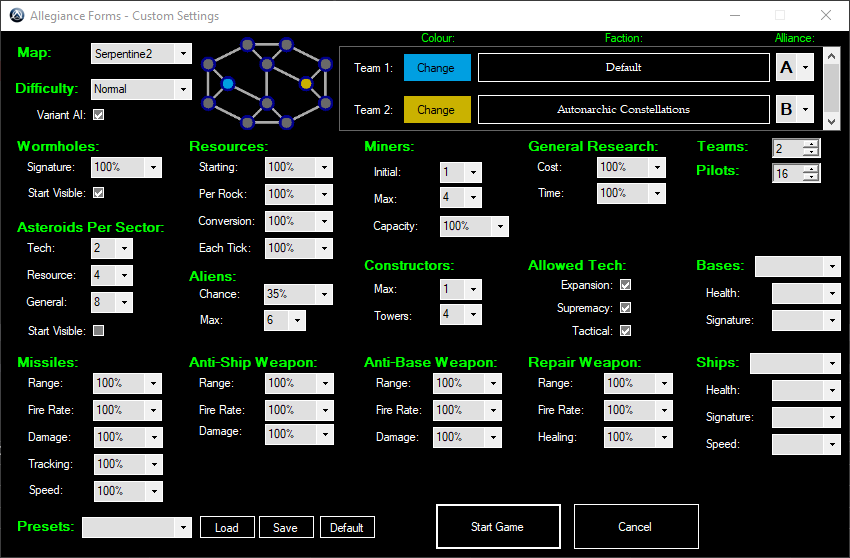
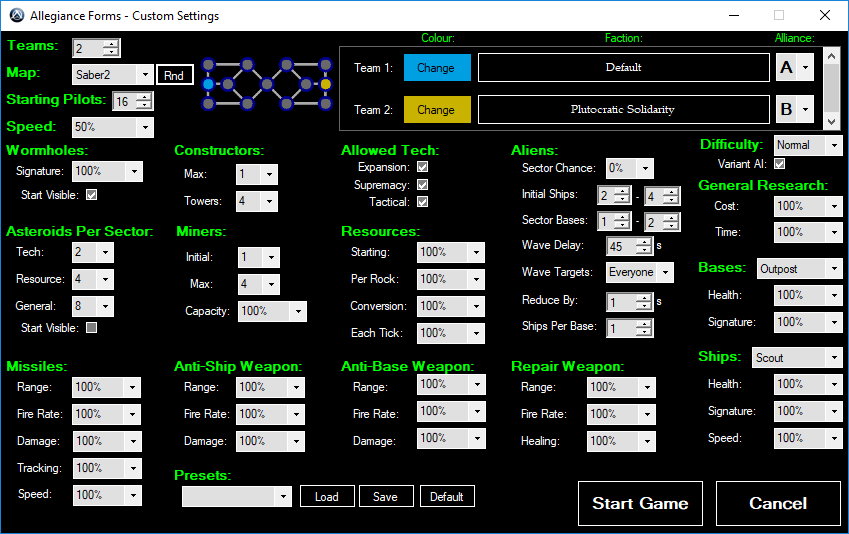
Updated readme and screenshots.

diff --git a/AllegianceForms/Properties/AssemblyInfo.cs b/AllegianceForms/Properties/AssemblyInfo.cs
@@ -9,7 +9,7 @@ using System.Runtime.InteropServices;
 [assembly: AssemblyConfiguration("")]
 [assembly: AssemblyCompany("")]
 [assembly: AssemblyProduct("AllegianceForms")]
-[assembly: AssemblyCopyright("Copyright © Aaron Moore 2017")]
+[assembly: AssemblyCopyright("Copyright © Aaron Moore 2020")]
 [assembly: AssemblyTrademark("")]
 [assembly: AssemblyCulture("")]
 
@@ -31,5 +31,5 @@ using System.Runtime.InteropServices;
 // You can specify all the values or you can default the Build and Revision Numbers 
 // by using the '*' as shown below:
 // [assembly: AssemblyVersion("1.0.*")]
-[assembly: AssemblyVersion("0.3.*")]
+[assembly: AssemblyVersion("0.4.*")]
 [assembly: log4net.Config.XmlConfigurator(Watch = true)]

diff --git a/README.md b/README.md
@@ -11,21 +11,21 @@
 
 Overview
 ------
-A 2D strategy game inspired by Microsoft's space combat game: Allegiance.
+A 2D strategy game inspired by Microsoft's 3D space combat game: Allegiance.
 
-Made for the Free Allegiance community: http://www.freeallegiance.org/
+Thanks to the Free Allegiance community: http://www.freeallegiance.org/
 
-- Allegiance was originally released in March 2000.
+- Allegiance was originally released in March 2000
 - It is now Open Source: https://github.com/FreeAllegiance/Allegiance
-- And available free on <a href="http://store.steampowered.com/app/700480/Microsoft_Allegiance/">Steam</a>!
+- And available for free on <a href="http://store.steampowered.com/app/700480/Microsoft_Allegiance/">Steam</a>!
 
-[Screenshots](#screenshots)&nbsp;&nbsp;&nbsp;[Video](#video)&nbsp;&nbsp;&nbsp;[Controls](#controls)&nbsp;&nbsp;&nbsp;[Credits](#credits)&nbsp;&nbsp;&nbsp;[Dependancies](#dependancies)
+[Screenshots](#screenshots)&nbsp;&nbsp;&nbsp;[Video](#video)&nbsp;&nbsp;&nbsp;[Controls](#controls)&nbsp;&nbsp;&nbsp;[Credits](#credits)
 
 Features
 ------
 - Customisable [Game Settings & Factions](#customise-the-game)
 - Commander AI
-- Multiple [Maps](#maps), [Map Editor](#map-editor) & [Tech Paths](#tech-tree)
+- Multiple [Maps](#maps), a [Map Editor](#map-editor) & [Tech Paths](#tech-tree)
 - Miners, Constructors, Scouts, Fighters, Interceptors, Bombers, Gunships, Stealth Fighters, Stealth Bombers, Fighter Bombers, Troop Transports, Towers, Minefields and Capital Ships!
 
 ![alt text][ships]
@@ -40,7 +40,7 @@ Screenshots
 ### Explore the map
 ![alt text][explore]
 - Discover wormholes to other sectors
-- Find your enemy's bases and miners
+- Find the enemy's bases and their miners
 
 ### Defend your miners & constructors
 ![alt text][defend]
@@ -48,11 +48,16 @@ Screenshots
 
 ### Build bases & expand
 ![alt text][expand]
-- Outpost, Refinery, Starbase and Shipyard constructors require *Standard* asteroids: <img src="https://github.com/aarmo/AllegianceForms/raw/master/AllegianceForms/Art/Rocks/rock_2.png" width="30"/>
+- Outpost, Starbase and Shipyard constructors require *Standard* asteroids: <img src="https://github.com/aarmo/AllegianceForms/raw/master/AllegianceForms/Art/Rocks/rock_2.png" width="30"/>
 - Supremacy constructors require *Carbon* asteroids: <img src="https://github.com/aarmo/AllegianceForms/raw/master/AllegianceForms/Art/Rocks/carbon_1.png" width="30"/>
 - Tactical constructors require *Silicon* asteroids: <img src="https://github.com/aarmo/AllegianceForms/raw/master/AllegianceForms/Art/Rocks/silicon_2.png" width="30"/>
 - Expansion constructors require *Uranium* asteroids: <img src="https://github.com/aarmo/AllegianceForms/raw/master/AllegianceForms/Art/Rocks/uranium_3.png" width="30"/>
+- Resource constructors require *Helium* asteroids.
 - Tower constructors require *No* asteroids.
+
+### Recruit more pilots
+- Outposts add 5 pilots to your team
+- Starbases add 10!
 
 ### Upgrade your tech & battle the enemy
 ![alt text][tech]
@@ -89,12 +94,12 @@ Key	| Description
 **F6** | Show/Hide the Pilot List window.
 **F12** | Show/Hide the AI Debug window.
 **`** | Show/Hide the Quick Command menu.
-**Pause** | Pause/Resume the game.
+**Pause**, **Escape** | Pause/Resume the game.
 
 ### Base Commands
 Key	| Description
 --- | ---
-**Right Click** | Sets a new *Default Location* for a base.
+**Right Click** | Sets a new *Default* rally location for this base.
 **S** | Launch a *Scout*.
 **F** | Launch a *Fighter*.
 **I** | Launch an *Interceptor*.
@@ -117,7 +122,7 @@ Key	| Description
 **R** | Orders the selected unit(s) to repeatedly *Patrol* between these positions.
 **E** | Orders the selected miners(s) to *Mine* around this position.
 **B** | Orders a selected constructor to *Build* near this position.
-**C** | Orders the selected troop transports to *Capture* an enemy base.
+**C** | Orders a selected troop transport to *Capture* an enemy base.
 
 [Overview](#overview)
 
@@ -126,7 +131,13 @@ Maps
 Name | Image | Teams
 --- | --- | ---
 Across4 | ![alt text][mapacross4] | 2 / 4
+Amber2 | ![alt text][mapamber2] | 2
+BowTie2 | ![alt text][mapbowtie2] | 2
 Brawl2 | ![alt text][mapbrawl2] | 2
+Chopper2 | ![alt text][mapchopper2] | 2
+Chopper3 | ![alt text][mapchopper3] | 3
+Chopper4 | ![alt text][mapchopper4] | 2 / 4
+Constellation2 | ![alt text][mapconstellation2] | 2
 Cross2 | ![alt text][mapcross2] | 2
 Cross3 | ![alt text][mapcross3] | 3
 Cross4 | ![alt text][mapcross4] | 2 / 4
@@ -136,6 +147,9 @@ DoubleRing4 | ![alt text][mapdoublering4] | 2 / 4
 Grid2 | ![alt text][mapgrid2] | 2
 HiHigher2 | ![alt text][maphihigher2] | 2
 HiLo2 | ![alt text][maphilo2] | 2
+Lanes4 | ![alt text][maplanes4] | 2 / 4
+Limited2 | ![alt text][maplimited2] | 2
+Mica2 | ![alt text][mapmica2] | 2
 NerveHigh2 | ![alt text][mapnervehigh2] | 2
 NerveHigh3 | ![alt text][mapnervehigh3] | 3
 NerveHigh4 | ![alt text][mapnervehigh4] | 2 / 4
@@ -145,12 +159,20 @@ NerveLow4 | ![alt text][mapnervelow4] | 2 / 4
 PinWheel2 | ![alt text][mappinwheel2] | 2
 PinWheel3 | ![alt text][mappinwheel3] | 3
 PinWheel4 | ![alt text][mappinwheel4] | 2 / 4
+Pyrite2 | ![alt text][mappyrite2] | 2
 QuadClose2 | ![alt text][mapquadclose2] | 2
 QuadClose3 | ![alt text][mapquadclose3] | 3
 QuadClose4 | ![alt text][mapquadclose4] | 2 / 4
+Saber2 | ![alt text][mapsaber2] | 2
+Saber4 | ![alt text][mapsaber4] | 2 / 4
+Schist2 | ![alt text][mapschist2] | 2
+Serpentine2 | ![alt text][mapserpentine2] | 2
 SingleRing2 | ![alt text][mapsinglering2] | 2
 SingleRing3 | ![alt text][mapsinglering3] | 3
 SingleRing4 | ![alt text][mapsinglering4] | 2 / 4
+SmallSpiral2 | ![alt text][mapsmallspiral2] | 2
+SmallSpiral3 | ![alt text][mapsmallspiral3] | 3
+SmallSpiral4 | ![alt text][mapsmallspiral4] | 2 / 4
 Spine2 | ![alt text][mapspine2] | 2
 Spine3 | ![alt text][mapspine3] | 3
 Spine4 | ![alt text][mapspine4] | 2 / 4
@@ -158,17 +180,7 @@ Star2 | ![alt text][mapstar2] | 2
 TriClose2 | ![alt text][maptriclose2] | 2
 TriClose3 | ![alt text][maptriclose3] | 3
 TriClose4 | ![alt text][maptriclose4] | 2 / 4
-Amber2 | ![alt text][mapamber2] | 2
-Constellation2 | ![alt text][mapconstellation2] | 2
-Limited2 | ![alt text][maplimited2] | 2
-Mica2 | ![alt text][mapmica2] | 2
-Pyrite2 | ![alt text][mappyrite2] | 2
-Schist2 | ![alt text][mapschist2] | 2
-Serpentine2 | ![alt text][mapserpentine2] | 2
 Xenon2 | ![alt text][mapxenon2] | 2
-BowTie2 | ![alt text][mapbowtie2] | 2
-Saber2 | ![alt text][mapsaber2] | 2
-Saber4 | ![alt text][mapsaber4] | 2 / 4
 
 [Overview](#overview)
 
@@ -206,21 +218,6 @@ Item | Source
 
 [Overview](#overview)
 
-Dependancies
-------
-Library | Source
---- | ---
-**IrrKlang** | [![Irrklang](http://www.ambiera.com/irrklang/images/irrklang_link_small.png)](http://www.ambiera.com/irrklang/index.html)
-
-[Overview](#overview)
-
-Bonus Game
-------
-### Lucky Dogfight
-![alt text][bonus]
-
-[(Rock Paper Scissors Lizard Spock)](http://www.samkass.com/theories/RPSSL.html)
-
 [ships]: /Doc/Images/Ships.png "Ship Types"
 [capships]: /Doc/Images/CapShips.png "Capital Ships"
 [menu]: /Doc/Screenshots/MainMenu.png "Main Menu"
@@ -232,7 +229,6 @@ Bonus Game
 [gameover]: /Doc/Screenshots/03a_GameOver.png "Game Over"
 [custom]: /Doc/Screenshots/CustomSettings.png "Custom Settings"
 [faction]: /Doc/Screenshots/FactionDetails.png "Custom Factions"
-[bonus]: /Doc/Screenshots/03a_Bonus.png "Dogfight"
 [techtree]: /Doc/Images/AllegianceForms-TechTree.png "Tech Tree"
 [mapeditor]: /Doc/Screenshots/MapDesigner.png "Map Editor"
 
@@ -281,3 +277,16 @@ Bonus Game
 [mapbowtie2]: /AllegianceForms/Data/Maps/BowTie2.png "BowTie2"
 [mapsaber2]: /AllegianceForms/Data/Maps/Saber2.png "Saber2"
 [mapsaber4]: /AllegianceForms/Data/Maps/Saber4.png "Saber4"
+
+[mapchopper2]: /AllegianceForms/Data/Maps/Chopper2.png "Chopper2"
+[mapchopper3]: /AllegianceForms/Data/Maps/Chopper3.png "Chopper3"
+[mapchopper4]: /AllegianceForms/Data/Maps/Chopper4.png "Chopper4"
+
+[mapsmallspiral2]: /AllegianceForms/Data/Maps/SmallSpiral2.png "SmallSpiral2"
+[mapsmallspiral3]: /AllegianceForms/Data/Maps/SmallSpiral3.png "SmallSpiral3"
+[mapsmallspiral4]: /AllegianceForms/Data/Maps/SmallSpiral4.png "SmallSpiral4"
+
+[maplanes4]: /AllegianceForms/Data/Maps/Lanes4.png "Lanes4"
+
+
+
